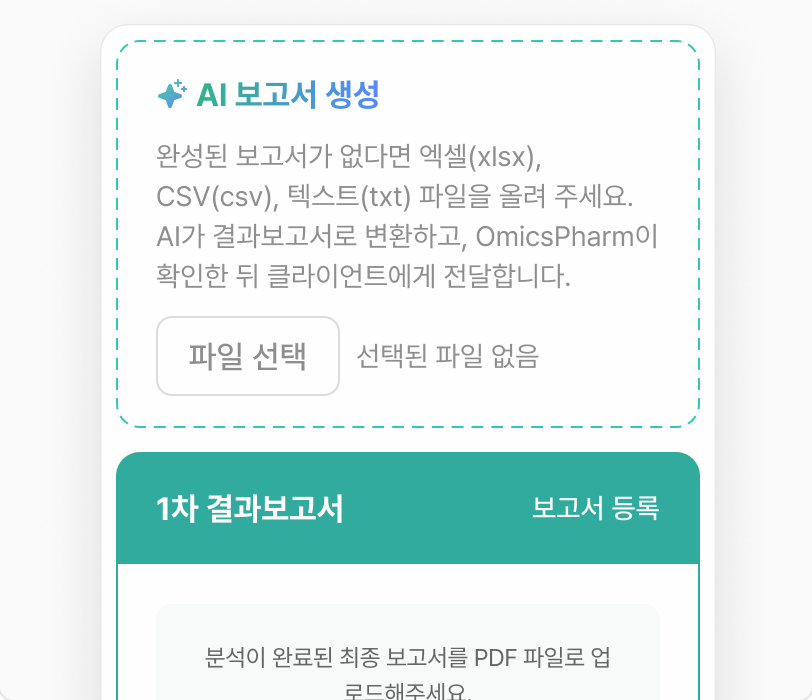
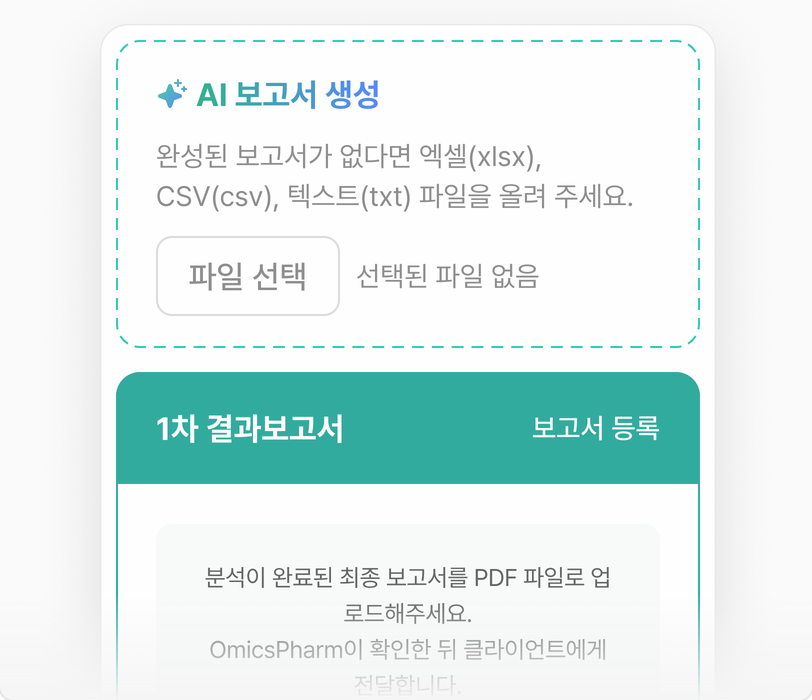
Features: 보고서 작성 이미지 Figma 재내보내기 (안내 문구 줄임)

Changed region(s): [[0.1232, 0.69, 0.8621, 1.0], [0.1232, 0.45, 0.8621, 0.66], [0.1847, 0.3, 0.8005, 0.42]]

diff --git a/index.html b/index.html
@@ -135,7 +135,7 @@
   .fb.report > img { left:calc(50% - 203px); width:406px; } .fb.matching > img { left:calc(50% - 449px); width:898px; }
   .fb .fh { position:absolute; left:31px; top:31px; display:flex; flex-direction:column; gap:12px; }
   .fb.report .fh { left:50px; top:32px; width:308px; } .fb.matching .fh { left:39px; top:39px; }
-  .fb::after { content:''; position:absolute; left:0; right:0; bottom:0; height:54px; background:linear-gradient(rgba(245,245,245,0), #f5f5f5); pointer-events:none; } .fb.interpret::after, .fb.support::after { content:none; } /* 카드 아래 회색 그라디언트 (결과 해석·Customer Support는 Figma 내보내기에 이미 들어 있음) (Figma Rectangle 34624211, 2026-11-05): 화면 이미지가 잘린 끝을 흐리게 */
+  .fb::after { content:''; position:absolute; left:0; right:0; bottom:0; height:54px; background:linear-gradient(rgba(245,245,245,0), #f5f5f5); pointer-events:none; } .fb.interpret::after, .fb.support::after, .fb.report::after { content:none; } /* 카드 아래 회색 그라디언트 (결과 해석·Customer Support·보고서 작성은 Figma 내보내기에 이미 들어 있음) (Figma Rectangle 34624211, 2026-11-05): 화면 이미지가 잘린 끝을 흐리게 */
   .fb .t { display:flex; align-items:center; gap:8px; font-size:18px; font-weight:600; line-height:24px; letter-spacing:-.18px; color:#000; }
   .fb .t .ic { width:24px; height:24px; color:#000; }
   .fb .fh p { font-size:16px; line-height:22px; color:#5b617a; }
@@ -459,7 +459,7 @@
       <div class="fb support"><div class="fh"><div class="t"><span class="ic" style="--src:url(assets/main/ic-chats.svg?v=2)"></span>AI Customer Support</div><p>프로젝트 의뢰부터 진행 상황까지 궁금한 점을 AI 챗봇이 언제든 <br>빠르게 안내합니다.</p></div><img src="assets/main/features/bento/support.png?v=2" alt="AI 상담 챗봇 화면 예시"></div>
     </div>
     <div class="fb-row">
-      <div class="fb report"><div class="fh"><div class="t"><span class="ic" style="--src:url(assets/main/ic-file-text.svg?v=2)"></span>AI 기반 보고서 작성<span class="ftag soon">Coming soon</span></div><p>분석 결과를 바탕으로 AI가 보고서 초안을 작성하고 필요한 부분은 바로 수정할 수 있습니다.</p></div><img src="assets/main/features/bento/report.png" alt="AI 보고서 생성 화면 예시"></div>
+      <div class="fb report"><div class="fh"><div class="t"><span class="ic" style="--src:url(assets/main/ic-file-text.svg?v=2)"></span>AI 기반 보고서 작성<span class="ftag soon">Coming soon</span></div><p>분석 결과를 바탕으로 AI가 보고서 초안을 작성하고 필요한 부분은 바로 수정할 수 있습니다.</p></div><img src="assets/main/features/bento/report.png?v=2" alt="AI 보고서 생성 화면 예시"></div>
       <div class="fb matching"><div class="fh"><div class="t"><span class="ic" style="--src:url(assets/main/ic-sparkle.svg)"></span>AI 파트너 매칭<span class="ftag soon">Coming soon</span></div><p>프로젝트의 분석 분야와 요구사항을 바탕으로 적합한 분석 파트너를 AI로 빠르게 추천합니다.</p></div><img src="assets/main/features/bento/matching.png?v=2" alt="AI 분석파트너 매칭 화면 예시"></div>
     </div>
   </div>
